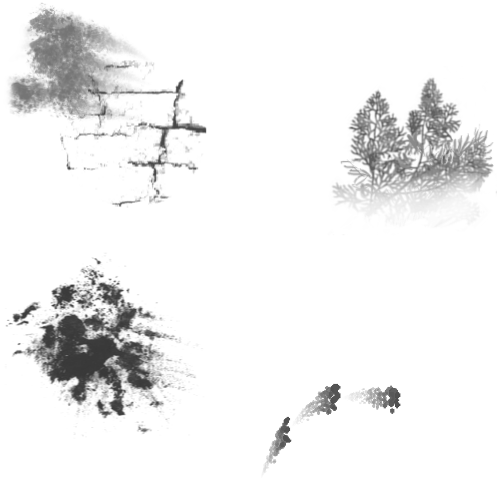
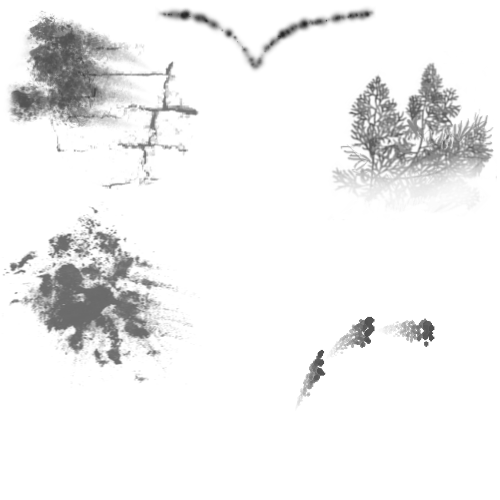
Update stylesheet and script versioning + fix of autoscroll

diff --git a/js/index.js b/js/index.js
@@ -26,6 +26,13 @@ let dotsShownAt = null; // timestamp when the dots appeared, null when they are 
 
 const sleep = (ms) => new Promise((resolve) => setTimeout(resolve, ms));
 
+// While a message is typed the box follows the newest line. Scrolling up hands the control to the
+// user; scrolling back down to the end re-enables the automatic scrolling.
+let autoScroll = true;
+thoughtBox.addEventListener("scroll", () => {
+    autoScroll = thoughtBox.scrollTop + thoughtBox.clientHeight >= thoughtBox.scrollHeight - 2;
+});
+
 function showDots() {
     generation++;
     clearTimeout(thoughtTimer);
@@ -43,9 +50,10 @@ async function showMessage(text) {
 
     dotsShownAt = null;
     thought.textContent = "";
+    autoScroll = true;
     for (const char of text) {
         thought.textContent += char;
-        thoughtBox.scrollTop = thoughtBox.scrollHeight; // keep the newest text in view when it overflows
+        if (autoScroll) thoughtBox.scrollTop = thoughtBox.scrollHeight; // keep the newest line in view
         await sleep(TYPE_DELAY);
         if (current !== generation) return false;
     }

diff --git a/pages/interests.html b/pages/interests.html
@@ -5,8 +5,8 @@
     <title>Luca Chioni</title>
     <meta name="viewport" content="width=device-width, initial-scale=1" />
     <link rel="icon" type="image/png" href="/images/icons/site-icon.png">
-    <link rel="stylesheet" href="/css/base.css?v=20260805181500">
-    <link rel="stylesheet" href="/css/interests.css?v=20260805181500">
+    <link rel="stylesheet" href="/css/base.css?v=20260919152846">
+    <link rel="stylesheet" href="/css/interests.css?v=20260919152846">
 </head>
 
 <body class="face-background happy">
@@ -324,6 +324,6 @@
     <audio id="bg-music-to-the-moon" src="/audio/to_the_moon.mp3"></audio>
     <audio id="bg-music-expedition-33" src="/audio/expedition_33.mp3"></audio>
 
-    <script type="module" src="/js/pages/interests.js?v=20260805181500"></script>
+    <script type="module" src="/js/pages/interests.js?v=20260919152846"></script>
 </body>
 </html>

diff --git a/pages/social_life.html b/pages/social_life.html
@@ -5,8 +5,8 @@
     <title>Luca Chioni</title>
     <meta name="viewport" content="width=device-width, initial-scale=1" />
     <link rel="icon" type="image/png" href="/images/icons/site-icon.png">
-    <link rel="stylesheet" href="/css/base.css?v=20260805181500">
-    <link rel="stylesheet" href="/css/social_life.css?v=20260805181500">
+    <link rel="stylesheet" href="/css/base.css?v=20260919152846">
+    <link rel="stylesheet" href="/css/social_life.css?v=20260919152846">
 </head>
 
 <body class="face-background social-skills">
@@ -53,6 +53,6 @@
         <span>Email: luca.chioni46@gmail.com</span>
     </div>
 
-    <script type="module" src="/js/pages/social_life.js?v=20260805181500"></script>
+    <script type="module" src="/js/pages/social_life.js?v=20260919152846"></script>
 </body>
 </html>

diff --git a/pages/blocked_secrets.html b/pages/blocked_secrets.html
@@ -6,8 +6,8 @@
     <meta name="viewport" content="width=device-width, initial-scale=1" />
     <meta name="robots" content="noindex">
     <link rel="icon" type="image/png" href="/images/icons/site-icon.png">
-    <link rel="stylesheet" href="/css/base.css?v=20260805181500">
-    <link rel="stylesheet" href="/css/blocked_secrets.css?v=20260805181500">
+    <link rel="stylesheet" href="/css/base.css?v=20260919152846">
+    <link rel="stylesheet" href="/css/blocked_secrets.css?v=20260919152846">
 </head>
 
 <body>
@@ -73,6 +73,6 @@
         <span>Email: luca.chioni46@gmail.com</span>
     </div>
 
-    <script type="module" src="/js/pages/blocked_secrets.js?v=20260805181500"></script>
+    <script type="module" src="/js/pages/blocked_secrets.js?v=20260919152846"></script>
 </body>
 </html>

diff --git a/pages/school.html b/pages/school.html
@@ -5,8 +5,8 @@
     <title>Luca Chioni</title>
     <meta name="viewport" content="width=device-width, initial-scale=1" />
     <link rel="icon" type="image/png" href="/images/icons/site-icon.png">
-    <link rel="stylesheet" href="/css/base.css?v=20260805181500">
-    <link rel="stylesheet" href="/css/school.css?v=20260805181500">
+    <link rel="stylesheet" href="/css/base.css?v=20260919152846">
+    <link rel="stylesheet" href="/css/school.css?v=20260919152846">
 </head>
 
 <body class="face-background bg-high-disappointment">
@@ -95,6 +95,6 @@
         <span>Email: luca.chioni46@gmail.com</span>
     </div>
 
-    <script type="module" src="/js/pages/school.js?v=20260805181500"></script>
+    <script type="module" src="/js/pages/school.js?v=20260919152846"></script>
 </body>
 </html>

diff --git a/pages/game_dev.html b/pages/game_dev.html
@@ -5,8 +5,8 @@
     <title>Luca Chioni</title>
     <meta name="viewport" content="width=device-width, initial-scale=1" />
     <link rel="icon" type="image/png" href="/images/icons/site-icon.png">
-    <link rel="stylesheet" href="/css/base.css?v=20260805181500">
-    <link rel="stylesheet" href="/css/game_dev.css?v=20260805181500">
+    <link rel="stylesheet" href="/css/base.css?v=20260919152846">
+    <link rel="stylesheet" href="/css/game_dev.css?v=20260919152846">
 </head>
 
 <body class="face-background dreamy">
@@ -103,6 +103,6 @@
         <span>Email: luca.chioni46@gmail.com</span>
     </div>
 
-    <script type="module" src="/js/pages/game_dev.js?v=20260805181500"></script>
+    <script type="module" src="/js/pages/game_dev.js?v=20260919152846"></script>
 </body>
 </html>

diff --git a/pages/secrets.html b/pages/secrets.html
@@ -5,8 +5,8 @@
     <title>Luca Chioni</title>
     <meta name="viewport" content="width=device-width, initial-scale=1" />
     <link rel="icon" type="image/png" href="/images/icons/site-icon.png">
-    <link rel="stylesheet" href="/css/base.css?v=20260805181500">
-    <link rel="stylesheet" href="/css/secrets.css?v=20260805181500">
+    <link rel="stylesheet" href="/css/base.css?v=20260919152846">
+    <link rel="stylesheet" href="/css/secrets.css?v=20260919152846">
 </head>
 
 <body class="face-background apatic">
@@ -58,6 +58,6 @@
         <span>Email: luca.chioni46@gmail.com</span>
     </div>
 
-    <script type="module" src="/js/pages/secrets.js?v=20260805181500"></script>
+    <script type="module" src="/js/pages/secrets.js?v=20260919152846"></script>
 </body>
 </html>

diff --git a/pages/work.html b/pages/work.html
@@ -5,8 +5,8 @@
     <title>Luca Chioni</title>
     <meta name="viewport" content="width=device-width, initial-scale=1" />
     <link rel="icon" type="image/png" href="/images/icons/site-icon.png">
-    <link rel="stylesheet" href="/css/base.css?v=20260805181500">
-    <link rel="stylesheet" href="/css/work.css?v=20260805181500">
+    <link rel="stylesheet" href="/css/base.css?v=20260919152846">
+    <link rel="stylesheet" href="/css/work.css?v=20260919152846">
 </head>
 
 <body class="face-background tired">
@@ -101,6 +101,6 @@
         <span>Email: luca.chioni46@gmail.com</span>
     </div>
 
-    <script type="module" src="/js/pages/work.js?v=20260805181500"></script>
+    <script type="module" src="/js/pages/work.js?v=20260919152846"></script>
 </body>
 </html>

diff --git a/index.html b/index.html
@@ -33,8 +33,8 @@
     <meta name="viewport" content="width=device-width, initial-scale=1" />
     <link rel="canonical" href="https://lucachioni.com/">
     <link rel="icon" type="image/png" href="/images/icons/site-icon.png">
-    <link rel="stylesheet" href="/css/base.css?v=20260805181500">
-    <link rel="stylesheet" href="/css/index.css?v=20260805181500">
+    <link rel="stylesheet" href="/css/base.css?v=20260919152846">
+    <link rel="stylesheet" href="/css/index.css?v=20260919152846">
 </head>
 
 <body>
@@ -112,6 +112,6 @@
         <span>Email: luca.chioni46@gmail.com</span>
     </div>
 
-    <script type="module" src="/js/index.js?v=20260805181500"></script>
+    <script type="module" src="/js/index.js?v=20260919152846"></script>
 </body>
 </html>

diff --git a/error.html b/error.html
@@ -6,8 +6,8 @@
     <meta name="viewport" content="width=device-width, initial-scale=1" />
     <meta name="robots" content="noindex">
     <link rel="icon" type="image/png" href="/images/icons/site-icon.png">
-    <link rel="stylesheet" href="/css/base.css?v=20260805181500">
-    <link rel="stylesheet" href="/css/error.css?v=20260805181500">
+    <link rel="stylesheet" href="/css/base.css?v=20260919152846">
+    <link rel="stylesheet" href="/css/error.css?v=20260919152846">
 </head>
 
 <body>
@@ -74,6 +74,6 @@
     </div>
 
 
-    <script type="module" src="/js/error.js?v=20260805181500"></script>
+    <script type="module" src="/js/error.js?v=20260919152846"></script>
 </body>
 </html>
